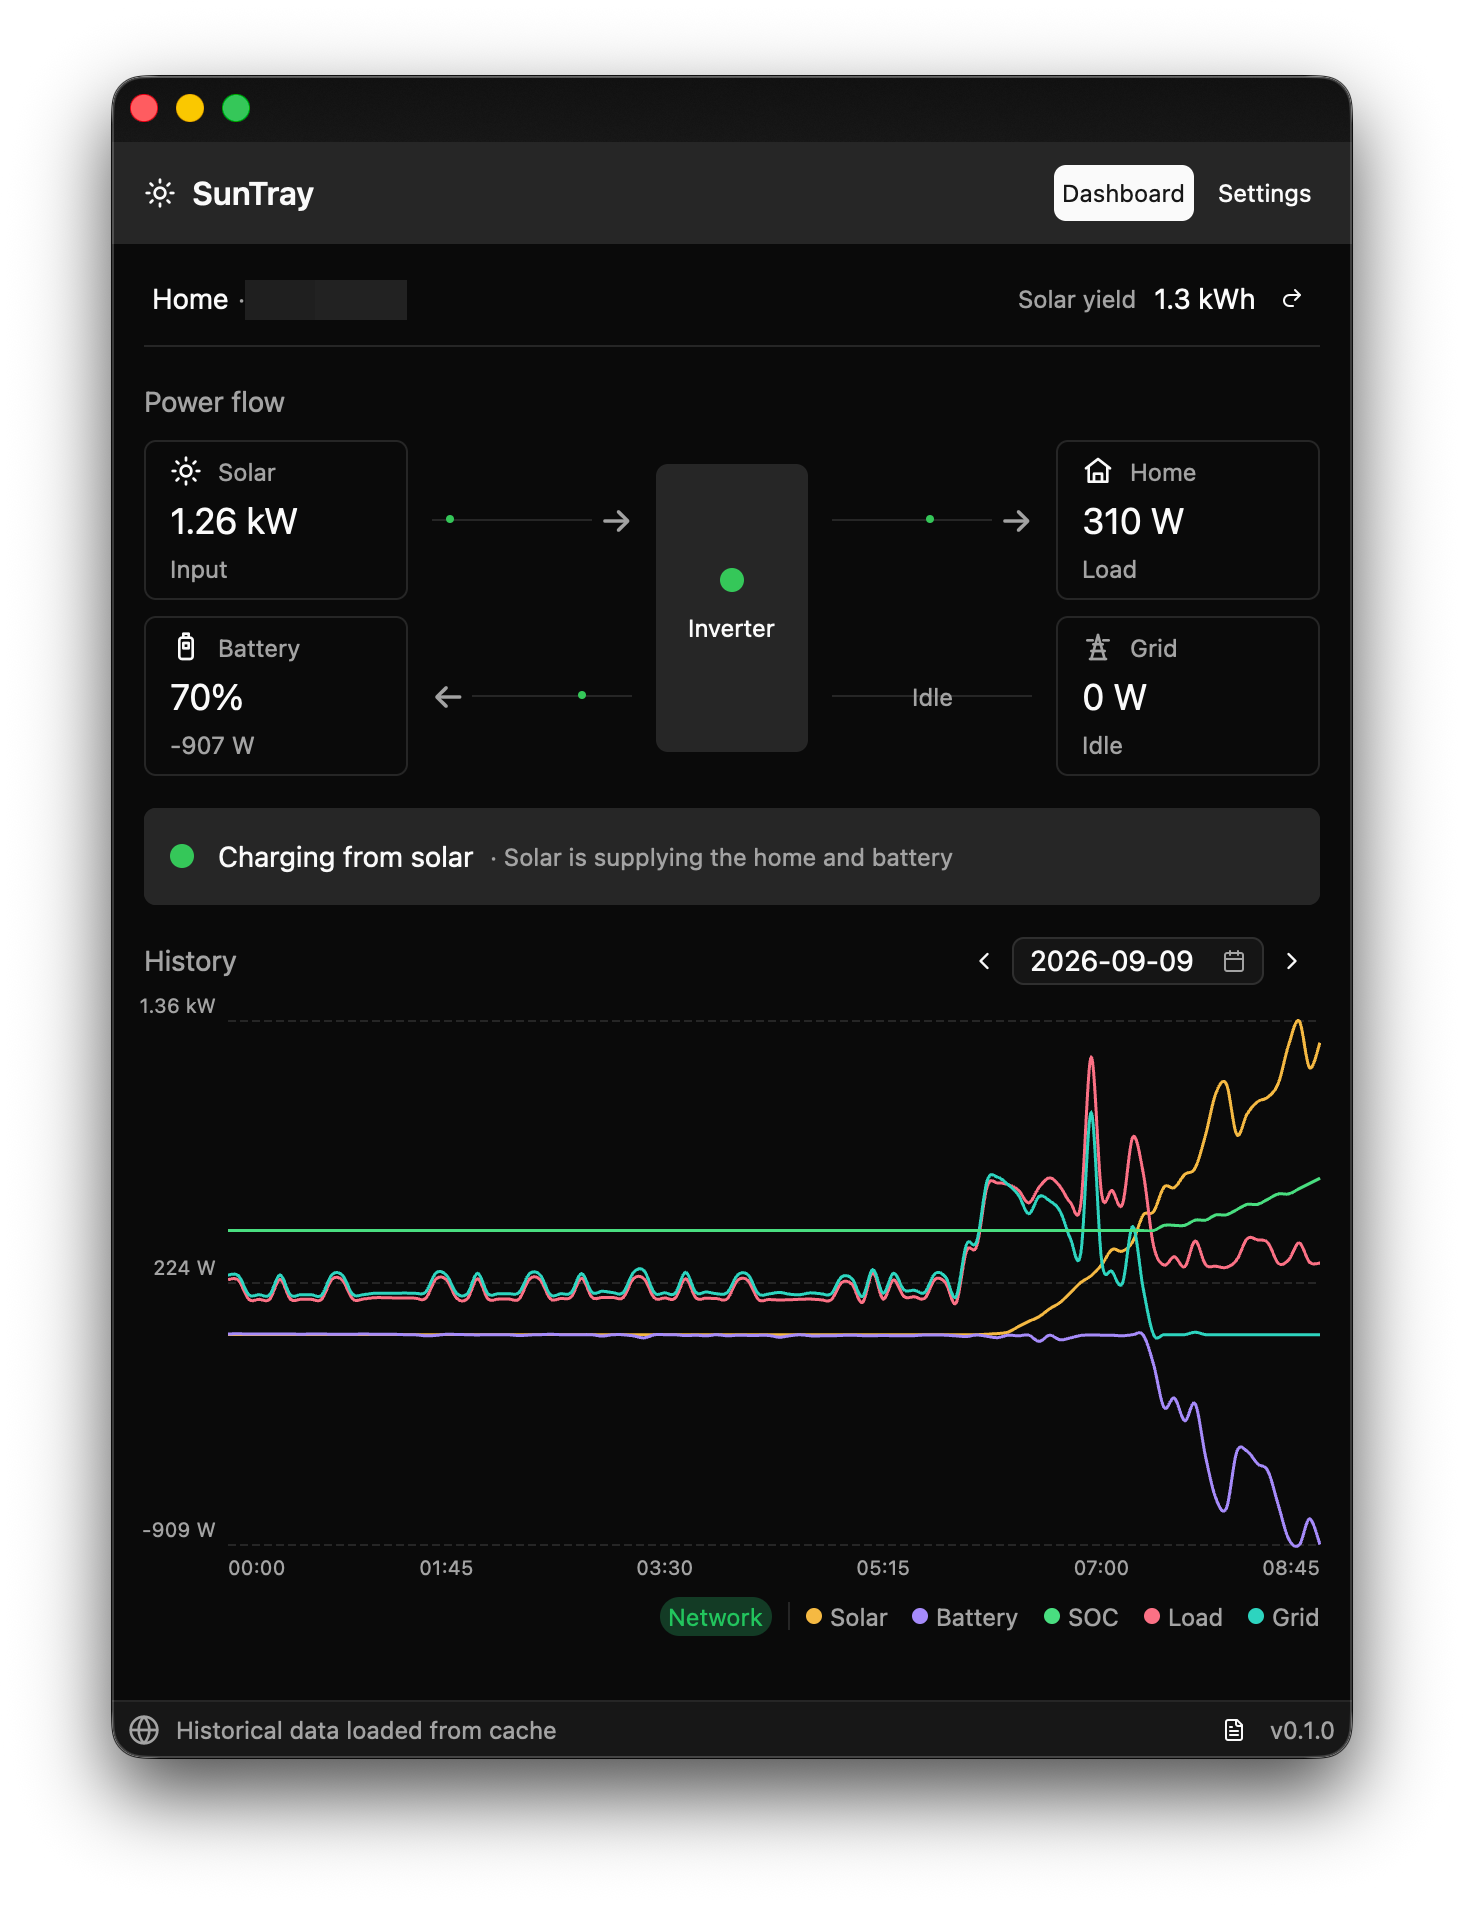
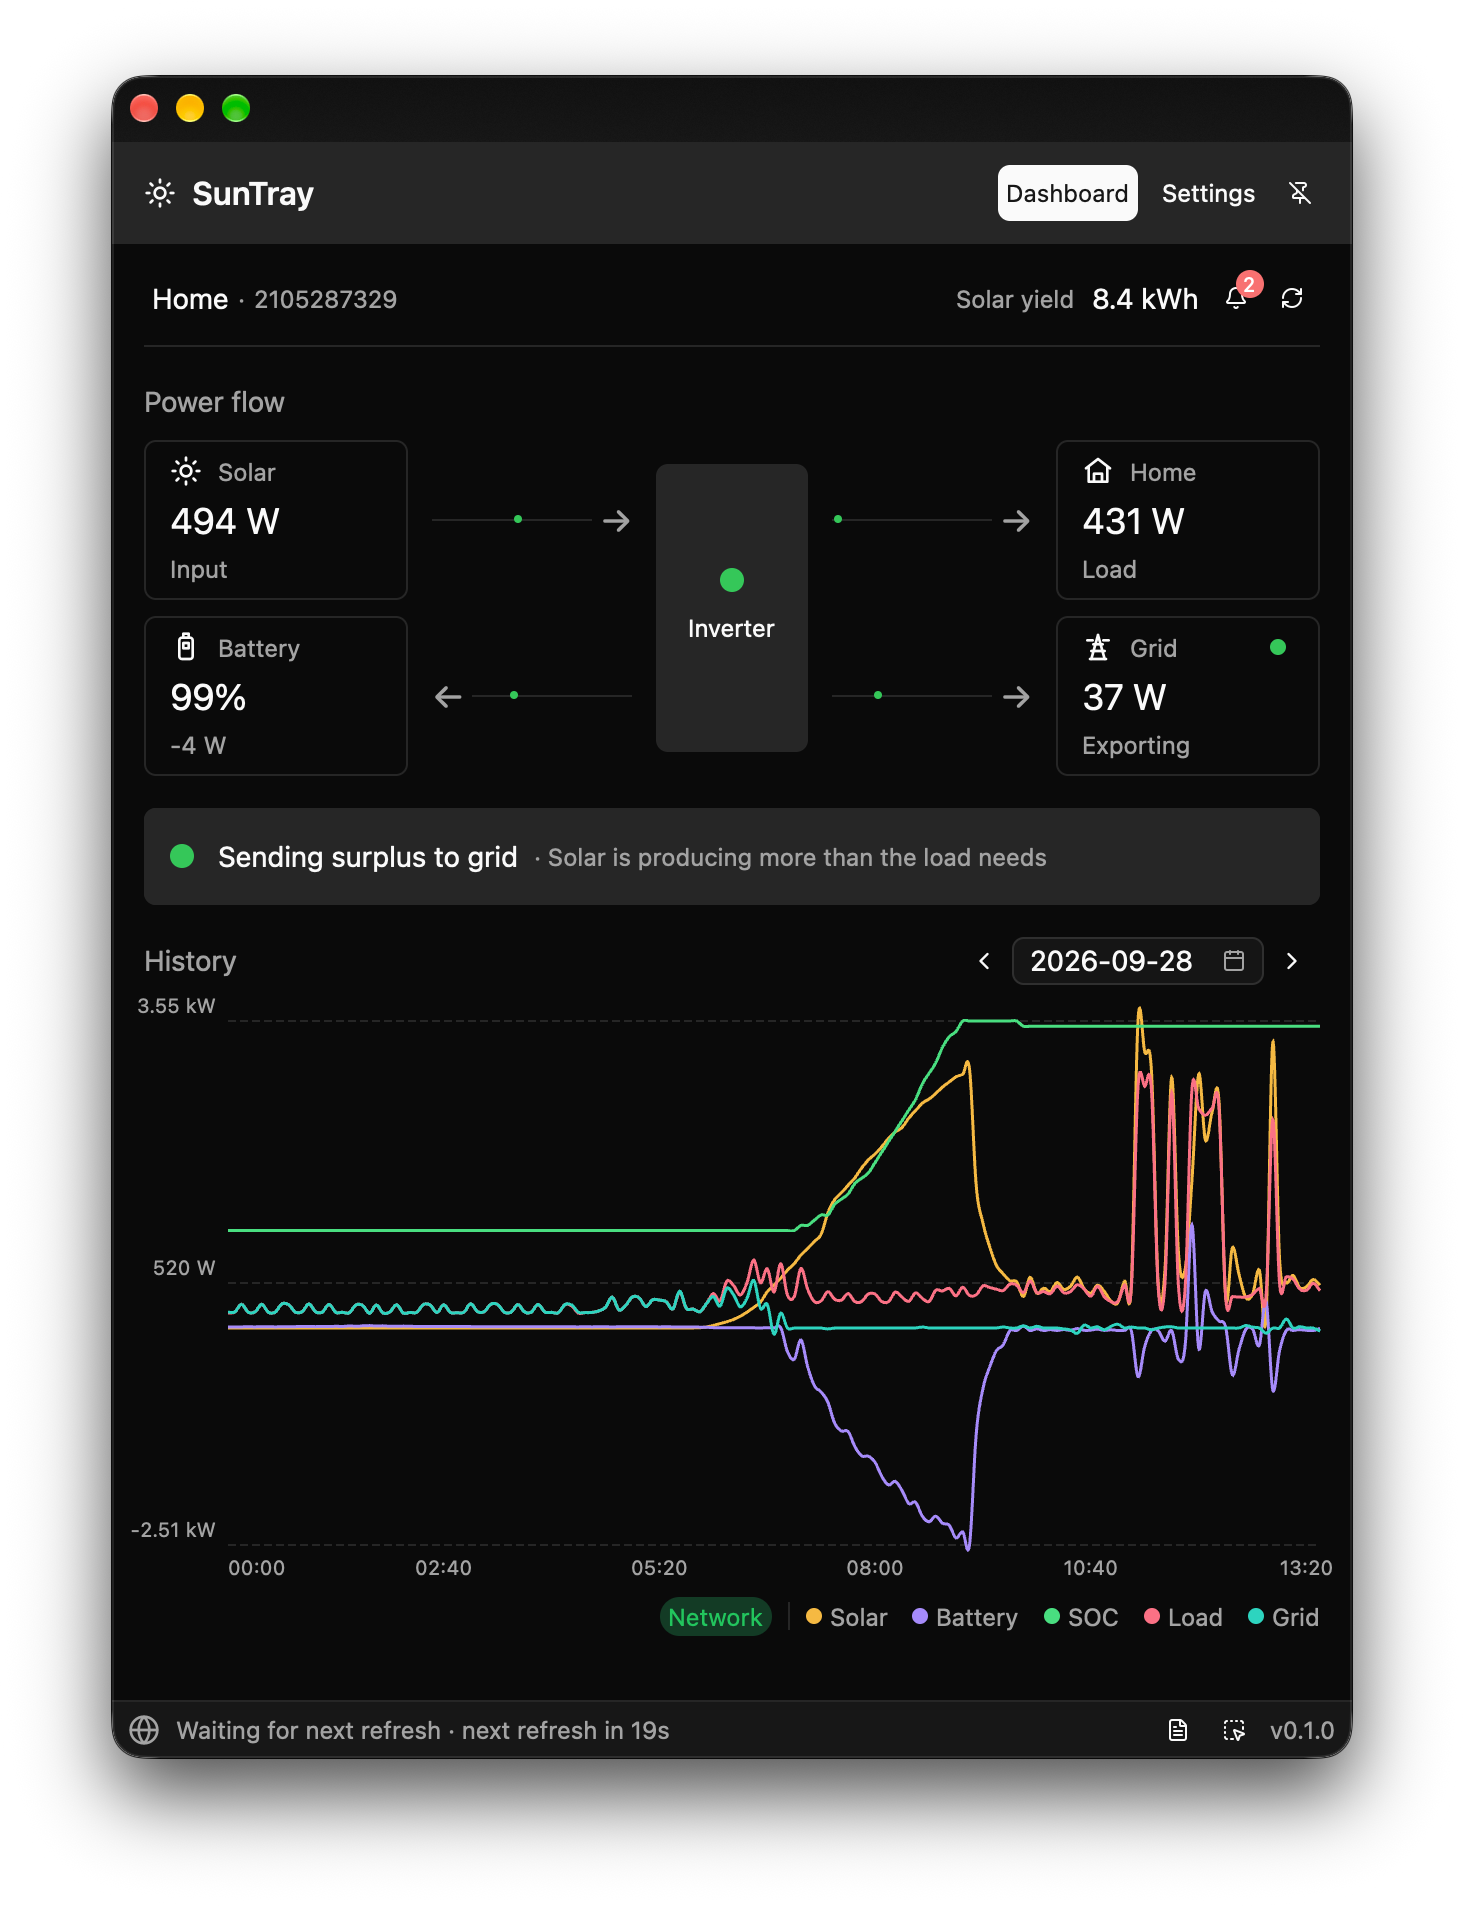
(chore) improve connection log perf
also update repo screenie

diff --git a/src/ui/connection_log.rs b/src/ui/connection_log.rs
@@ -1,10 +1,11 @@
 use crate::app::{ConnectionState, MonitorController};
+use gpui_kit::component::ChildElement;
 use gpui_kit::component::{
-    scroll::ScrollableElement,
-    table::{Table, TableBody, TableCell, TableHead, TableHeader, TableRow},
+    table::{Table, TableCell, TableHead, TableHeader, TableRow},
     ActiveTheme, Sizable, StyledExt, TitleBar,
 };
 use gpui_kit::*;
+use std::sync::Arc;
 
 const DATE_COLUMN_WIDTH: Pixels = px(184.);
 const ID_COLUMN_WIDTH: Pixels = px(42.);
@@ -15,7 +16,8 @@ const DURATION_COLUMN_WIDTH: Pixels = px(76.);
 pub(crate) struct ConnectionLogView {
     pub(crate) controller: Entity<MonitorController>,
     cached_revision: u64,
-    rows: Vec<LogRow>,
+    rows: Arc<Vec<LogRow>>,
+    scroll_handle: UniformListScrollHandle,
 }
 
 impl ConnectionLogView {
@@ -32,7 +34,8 @@ impl ConnectionLogView {
         Self {
             controller,
             cached_revision: u64::MAX,
-            rows: Vec::new(),
+            rows: Arc::new(Vec::new()),
+            scroll_handle: UniformListScrollHandle::new(),
         }
     }
 }
@@ -56,89 +59,115 @@ impl Render for ConnectionLogView {
                 .connection_log
                 .lock()
                 .unwrap_or_else(|error| error.into_inner());
-            self.rows = connection_log
-                .iter()
-                .rev()
-                .map(|entry| parse_entry(entry))
-                .collect();
+            self.rows = Arc::new(
+                connection_log
+                    .iter()
+                    .rev()
+                    .map(|entry| parse_entry(entry))
+                    .collect(),
+            );
             self.cached_revision = revision;
         }
+        let rows = self.rows.clone();
         let mono = theme.mono_font_family.clone();
-        let mut body = TableBody::new();
-        if self.rows.is_empty() {
-            body = body.child(
-                TableRow::new().child(
-                    TableCell::new()
-                        .col_span(6)
-                        .text_color(theme.muted_foreground)
-                        .child("No connection events recorded yet."),
-                ),
-            );
+        let muted = theme.muted_foreground;
+        let danger = theme.danger;
+        let body = if rows.is_empty() {
+            div()
+                .flex_1()
+                .items_center()
+                .justify_center()
+                .text_sm()
+                .text_color(muted)
+                .child("No connection events recorded yet.")
+                .into_any_element()
         } else {
-            for row in &self.rows {
-                let status_color = row.status_color(theme.muted_foreground, theme.danger);
-                body = body.child(
-                    TableRow::new()
-                        .child(
-                            TableCell::new()
-                                .w(DATE_COLUMN_WIDTH)
-                                .text_sm()
-                                .font_family(mono.clone())
-                                .child(row.date.clone()),
-                        )
-                        .child(
-                            TableCell::new()
-                                .w(ID_COLUMN_WIDTH)
-                                .text_sm()
-                                .font_family(mono.clone())
-                                .child(row.id.clone()),
-                        )
-                        .child(
-                            TableCell::new()
-                                .w(METHOD_COLUMN_WIDTH)
-                                .text_sm()
-                                .font_family(mono.clone())
-                                .child(row.method.clone()),
-                        )
-                        .child(
-                            TableCell::new()
-                                .flex_1()
-                                .text_sm()
-                                .font_family(mono.clone())
-                                .overflow_hidden()
-                                .child(row.path.clone()),
-                        )
-                        .child(
-                            TableCell::new()
-                                .w(STATUS_COLUMN_WIDTH)
-                                .text_sm()
-                                .font_family(mono.clone())
-                                .text_color(status_color)
-                                .child(row.status.clone()),
-                        )
-                        .child(
-                            TableCell::new()
-                                .w(DURATION_COLUMN_WIDTH)
-                                .text_sm()
-                                .font_family(mono.clone())
-                                .child(row.duration.clone()),
-                        ),
-                );
-            }
-        }
-        let entries = Table::new()
-            .small()
-            .accessibility_label("Connection events")
+            uniform_list("connection-log-rows", rows.len(), move |range, _, _| {
+                range
+                    .map(|index| {
+                        let row = &rows[index];
+                        let cell_ix = index * 6;
+                        let status_color = row.status_color(muted, danger);
+                        TableRow::new()
+                            .small()
+                            .with_ix(index)
+                            .child(
+                                TableCell::new()
+                                    .with_ix(cell_ix)
+                                    .w(DATE_COLUMN_WIDTH)
+                                    .text_sm()
+                                    .font_family(mono.clone())
+                                    .child(row.date.clone()),
+                            )
+                            .child(
+                                TableCell::new()
+                                    .with_ix(cell_ix + 1)
+                                    .w(ID_COLUMN_WIDTH)
+                                    .text_sm()
+                                    .font_family(mono.clone())
+                                    .child(row.id.clone()),
+                            )
+                            .child(
+                                TableCell::new()
+                                    .with_ix(cell_ix + 2)
+                                    .w(METHOD_COLUMN_WIDTH)
+                                    .text_sm()
+                                    .font_family(mono.clone())
+                                    .child(row.method.clone()),
+                            )
+                            .child(
+                                TableCell::new()
+                                    .with_ix(cell_ix + 3)
+                                    .flex_1()
+                                    .text_sm()
+                                    .font_family(mono.clone())
+                                    .text_ellipsis()
+                                    .child(row.path.clone()),
+                            )
+                            .child(
+                                TableCell::new()
+                                    .with_ix(cell_ix + 4)
+                                    .w(STATUS_COLUMN_WIDTH)
+                                    .text_sm()
+                                    .font_family(mono.clone())
+                                    .text_color(status_color)
+                                    .child(row.status.clone()),
+                            )
+                            .child(
+                                TableCell::new()
+                                    .with_ix(cell_ix + 5)
+                                    .w(DURATION_COLUMN_WIDTH)
+                                    .text_sm()
+                                    .font_family(mono.clone())
+                                    .child(row.duration.clone()),
+                            )
+                    })
+                    .collect::<Vec<_>>()
+            })
+            .track_scroll(&self.scroll_handle)
+            .flex_1()
+            .min_h(px(0.))
+            .into_any_element()
+        };
+        let entries = div()
+            .v_flex()
+            .flex_1()
+            .min_h(px(0.))
             .child(
-                TableHeader::new().child(
-                    TableRow::new()
-                        .child(TableHead::new().w(DATE_COLUMN_WIDTH).child("Date"))
-                        .child(TableHead::new().w(ID_COLUMN_WIDTH).child("#"))
-                        .child(TableHead::new().w(METHOD_COLUMN_WIDTH).child("Method"))
-                        .child(TableHead::new().flex_1().child("Path"))
-                        .child(TableHead::new().w(STATUS_COLUMN_WIDTH).child("Response"))
-                        .child(TableHead::new().w(DURATION_COLUMN_WIDTH).child("Time")),
-                ),
+                Table::new()
+                    .small()
+                    .accessibility_label("Connection events")
+                    .child(
+                        TableHeader::new().small().child(
+                            TableRow::new()
+                                .child(TableHead::new().w(DATE_COLUMN_WIDTH).child("Date"))
+                                .child(TableHead::new().w(ID_COLUMN_WIDTH).child("#"))
+                                .child(TableHead::new().w(METHOD_COLUMN_WIDTH).child("Method"))
+                                .child(TableHead::new().flex_1().child("Path"))
+                                .child(TableHead::new().w(STATUS_COLUMN_WIDTH).child("Response"))
+                                .child(TableHead::new().w(DURATION_COLUMN_WIDTH).child("Time")),
+                        ),
+                    ),
             )
             .child(body);
         div()
@@ -151,7 +180,7 @@ impl Render for ConnectionLogView {
                 div()
                     .v_flex()
                     .flex_1()
-                    .overflow_y_scrollbar()
+                    .min_h(px(0.))
                     .p_4()
                     .gap_3()
                     .child(div().text_lg().child("Connection log"))
